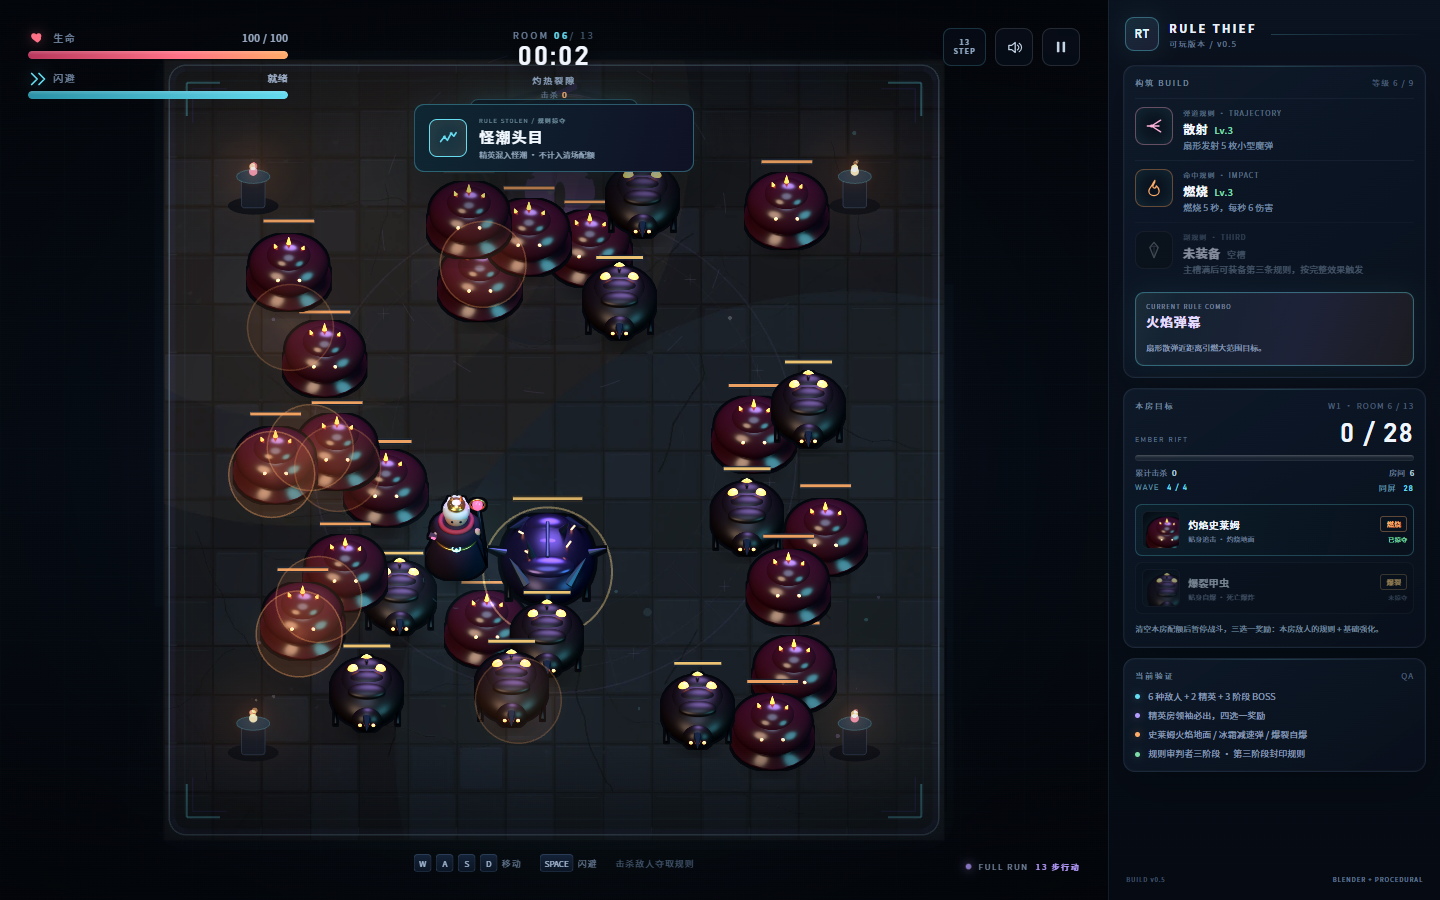
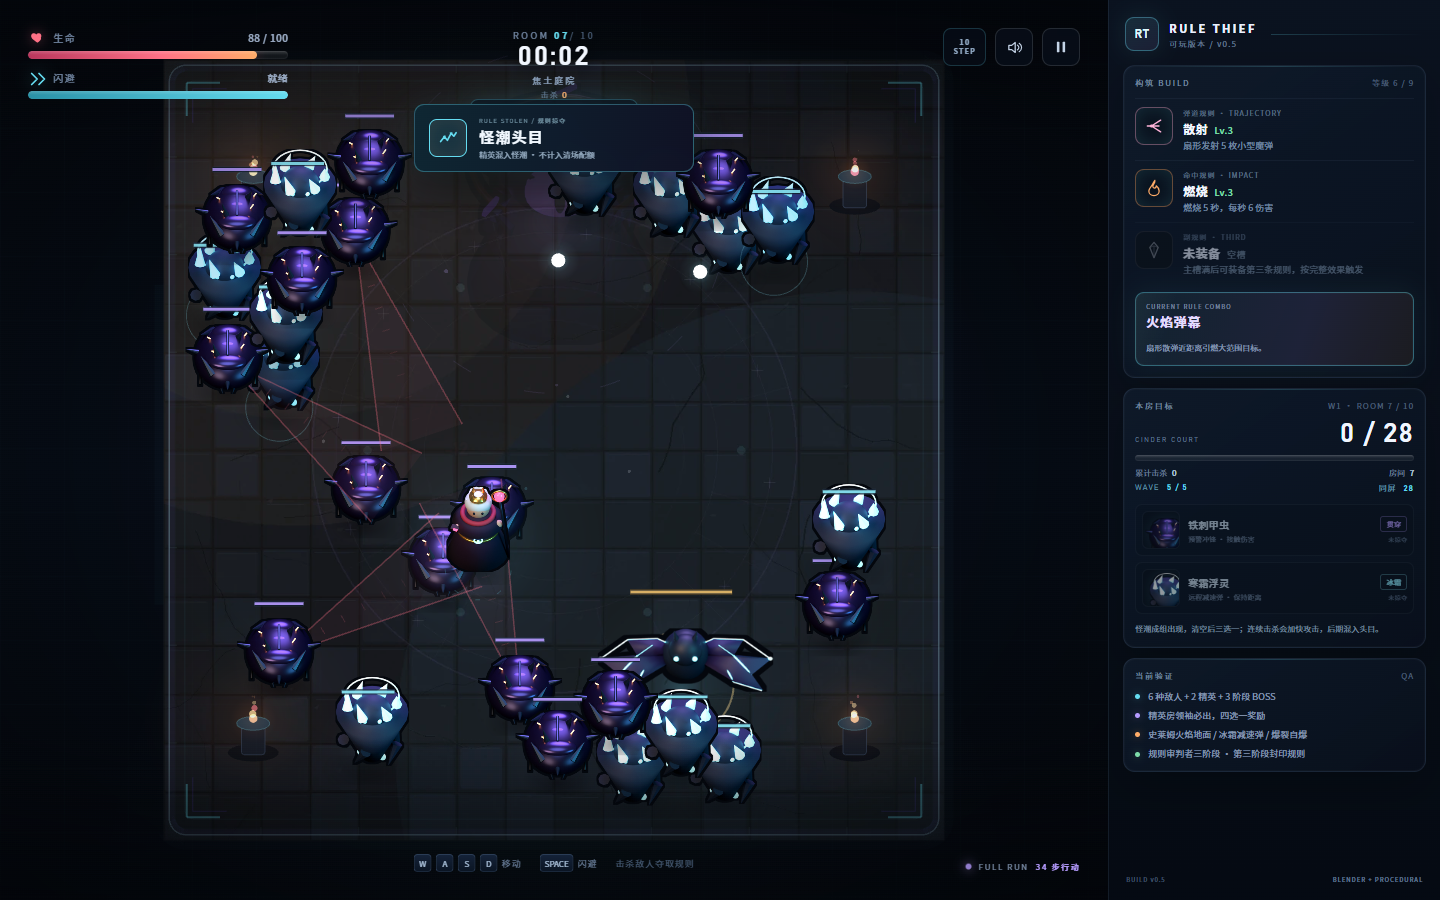
docs: 同步十步第一世界 UI 与截图

diff --git a/index.html b/index.html
@@ -4,7 +4,7 @@
     <meta charset="UTF-8" />
     <meta name="viewport" content="width=device-width, initial-scale=1.0, viewport-fit=cover" />
     <meta name="theme-color" content="#05080f" />
-    <meta name="description" content="规则掠夺者 RULE THIEF · 单人肉鸽动作：三世界 37 步、14 种敌人、3 名精英、6 种随机事件、6 件遗物、3 种升阶与 I–V 异变难度。" />
+    <meta name="description" content="规则掠夺者 RULE THIEF · 单人肉鸽动作：三世界 34 步、14 种敌人、3 名精英、6 种随机事件、6 件遗物、3 种升阶与 I–V 异变难度。" />
     <title>规则掠夺者 RULE THIEF · 三世界肉鸽行动</title>
     <link rel="icon" href="./favicon.svg" type="image/svg+xml" />
     <link rel="preload" as="image" href="./assets/art/menu-key.webp" />
@@ -134,7 +134,7 @@
               </div>
 
               <div class="run-actions">
-                <div class="style-badge">13<br />STEP</div>
+                <div class="style-badge">10<br />STEP</div>
                 <button class="icon-btn sound-btn" id="sound-btn" aria-label="静音" aria-pressed="false">
                   <svg class="sound-on"><use href="#i-sound" /></svg>
                   <svg class="sound-off" hidden><use href="#i-mute" /></svg>
@@ -203,7 +203,7 @@
 
             <div class="boss-watch">
               <span class="boss-dot"></span>
-              FULL RUN <b>13 步行动</b>
+              FULL RUN <b>34 步行动</b>
             </div>
 
             <div class="kill-streak" id="kill-streak" hidden>
@@ -538,10 +538,10 @@
             <em>让每一次命中，都改写战斗。</em>
           </p>
 
-          <div class="slice-chip"><span class="slice-dot"></span>13 步路线 · 10 场战斗 + 2 事件 + BOSS</div>
+          <div class="slice-chip"><span class="slice-dot"></span>第一世界 10 步 · 7 场战斗 + 2 事件 + BOSS</div>
 
           <div class="stats-row">
-            <div class="stat"><b>13</b><span>路线步数</span></div>
+            <div class="stat"><b>10</b><span>第一世界步数</span></div>
             <div class="stat"><b>6</b><span>可掠夺敌人</span></div>
             <div class="stat"><b>9</b><span>规则组合</span></div>
             <div class="stat"><b>3</b><span>突变天赋</span></div>
@@ -550,7 +550,7 @@
           <div class="menu-actions">
             <button class="primary" id="enter-btn">
               <span class="btn-ico"><svg><use href="#i-play" /></svg></span>
-              <span class="btn-copy"><b>进入训练回廊</b><small>13-STEP RUN</small></span>
+              <span class="btn-copy"><b>进入训练回廊</b><small>10-STEP RUN</small></span>
               <span class="btn-arrow"><svg><use href="#i-arrow" /></svg></span>
             </button>
             <button class="ghost" id="menu-note-btn">这是什么？</button>
@@ -596,7 +596,7 @@
 
         <div class="menu-status">
           <span class="status-dot"></span>
-          13 步 · 6 敌人 2 精英 4 事件 · 竖屏 / 横屏双端适配
+          第一世界 10 步 · 6 敌人 1 精英 4 事件 · 竖屏 / 横屏双端适配
         </div>
 
         <div class="note-modal" id="note-modal" hidden>
@@ -607,10 +607,10 @@
             <div class="eyebrow"><span class="eyebrow-dot"></span> WHAT IS THIS</div>
             <h2>一局怎么玩</h2>
             <p>
-              走完 13 步路线：10 场战斗、2 个随机事件、最多 2 位精英，最后挑战规则审判者。清空房间后三选一，规则只来自本房真实敌人；精英房四选一并保底一张突变。
+              走完第一世界 10 步路线：7 场战斗、2 个随机事件、最多 1 位精英，最后挑战规则审判者。清空房间后三选一，规则只来自本房真实敌人；精英房四选一并保底一张突变。
             </p>
             <ul class="note-list">
-              <li><b>目标</b>在第 9 / 12 步挑战精英，击穿三阶段 BOSS，结算显示 13 / 13</li>
+              <li><b>目标</b>在第 9 步挑战精英，击穿三阶段 BOSS，结算显示 10 / 10</li>
               <li><b>弹道</b>贯穿沿线穿击、弹射目标间跳跃、散射扇形多发</li>
               <li><b>命中</b>燃烧持续掉血、冰霜减速、爆裂范围引爆</li>
               <li><b>突变</b>过载核心 / 疾行强化 / 绝境斗志，每局最多 1 条</li>
@@ -619,7 +619,7 @@
               <li><b>操作</b>WASD / 摇杆移动，Space / 按钮闪避，1–4 选择奖励，Esc 暂停查看构筑</li>
             </ul>
             <button class="primary compact" id="note-enter-btn">
-              <span class="btn-copy"><b>进入训练回廊</b><small>13-STEP RUN</small></span>
+              <span class="btn-copy"><b>进入训练回廊</b><small>10-STEP RUN</small></span>
               <span class="btn-arrow"><svg><use href="#i-arrow" /></svg></span>
             </button>
           </div>
